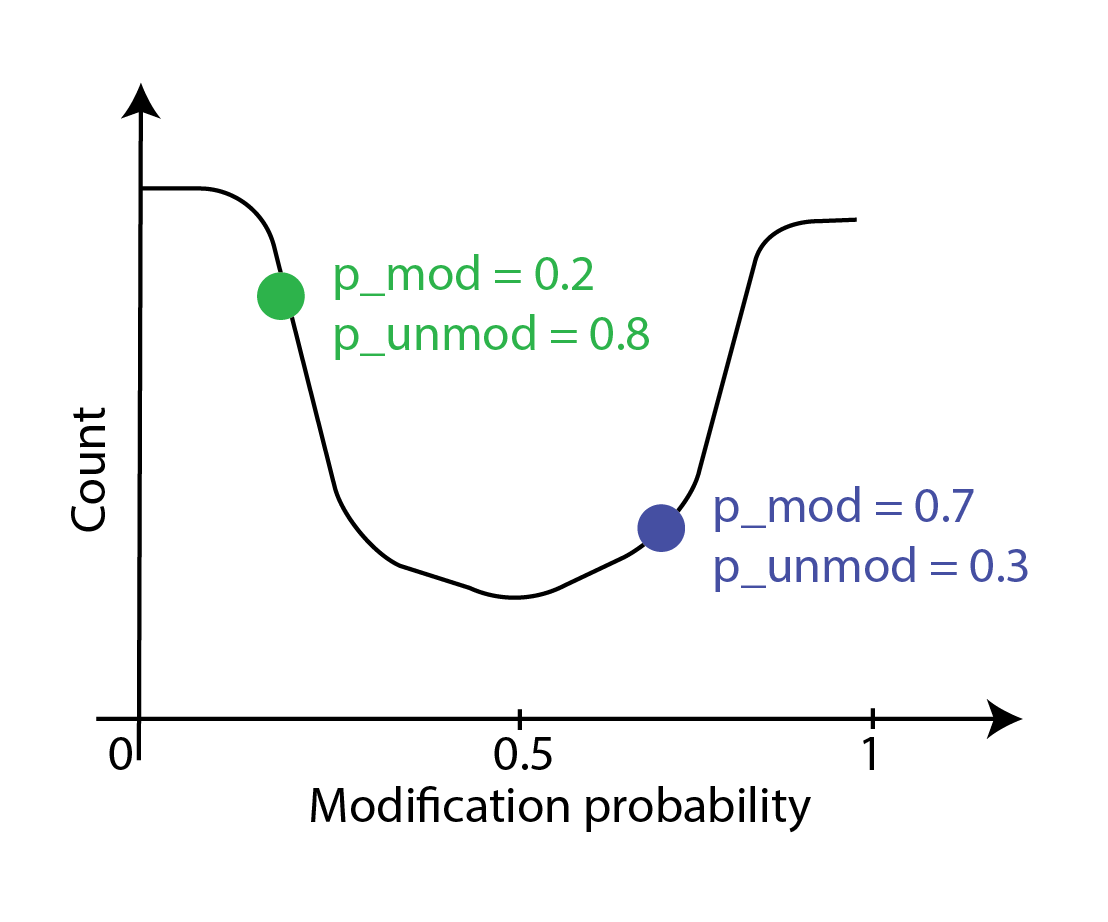
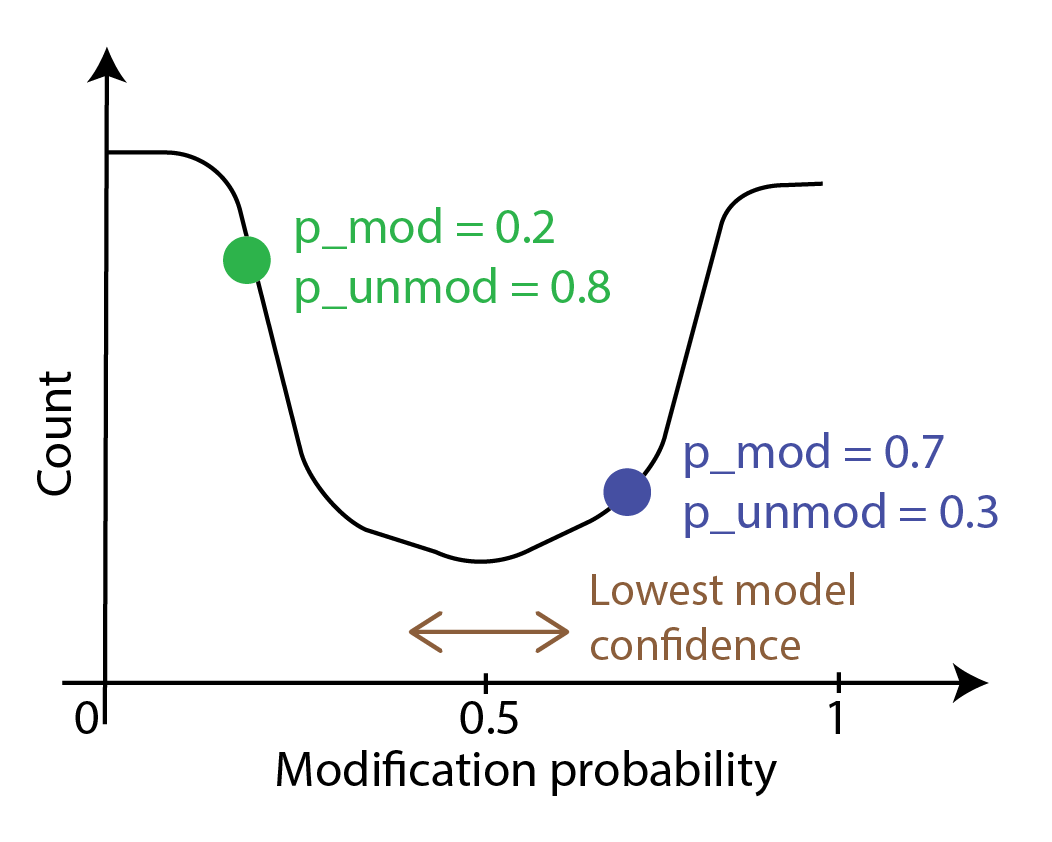
adds more material

diff --git a/materials/manipulate-modified-base.md b/materials/manipulate-modified-base.md
@@ -67,12 +67,16 @@ and this uncertainty is not important.
 There are two ways of thresholding, and they can be applied separately or together: 
 - thresholding directly on modification probabilities,
 - thresholding on model confidences.
-Although the two are closely related, we will mostly be dealing with just thresholding
-directly on probabilities.
+
+We will be using just thresholding directly on probabilities, and leave
+thresholding on model confidences to optional sections below.
 
 The probability curve of modification per base usually looks like the following image.
 Each point on the curve corresponds to a probability of modification `p_mod` and
 a probability that the base is unmodified `p_unmod`; these add up to 1.
+The calls with probabilities close to zero or one are where the model in the modification
+caller is certain that the call is correct. The calls around 0.5 are where
+model uncertainty is the highest as it is doing no better than an unbiased coin toss.
 
 ![Example probability curve of modification per base](probability_of_modification.png)
 
@@ -135,7 +139,8 @@ is shown below.
 As you can see, model confidences grow as one moves away from the midpoint
 of 0.5 in either direction.
 Model confidence is not a new measurement - we are just asking which parts
-of the probability curve around the center have areas of 10%, 20% etc. of the whole curve.
+of the probability curve around the center have areas a fraction of the
+whole curve with the fraction set at 10%, 20% etc. 
 
 ![Confidence zones](probability_of_modification_with_confidence_thresholds.png)
 
@@ -170,17 +175,48 @@ bins in the histogram (`--buckets 10`), and wish to sample
 to save runtime; usually a fraction of the BAM file is sufficient
 for these calculations and we leave it to the experimenter to
 determine what that fraction is for their dataset).
+We will discuss the `-p` option in an optional subsection a little later.
 
 ```bash
 input_bam_file= # fill this suitably
-modkit sample-probs $input_bam_file -o ./histogram --hist --buckets 10 -n 1000
+modkit sample-probs -p 0.1,0.2,0.3,0.4,0.5 \
+  $input_bam_file -o ./histogram --hist --buckets 10 -n 1000
 ```
 
 The output files are deposited in the `./histogram` folder.
 You should see three output files: `probabilities.txt`, `probabilities.tsv`
 and `thresholds.tsv`.
+The `probabilities` files report number of modified bases in ten buckets of
+modification probability `p_mod` from 0.5 - 1.0,
+and the same for the number of unmodified bases using the probability that
+the base is not modified `p_unmod = 1 - p_mod`.
+`probabilities.txt` also contains a histogram made with ASCII art
+(i.e. using the symbol ∎ to build horizontal bars of this histogram).
 
-<!-- TODO: fill what these files mean. what do we do about thresholds? -->
+Have a look at these files, and answer this question for yourself: what 
+would be a good modification probability value for thresholding?
+
+### (optional) thresholds.tsv: measure correspondence between model confidence thresholds and direct probability thresholds
+
+`thresholds.tsv` contains the table of conversion between model confidences and direct probability thresholds.
+This is illustrated in the schematic below, which shows that model confidences of 10% and below
+lie between modification probabilities of `t_1` and `0.5 - t_1`, confidences of 20% and below lie between
+`t_2` and `0.5-t_2` etc. So, thresholds.tsv contains a table that lists this correspondence.
+There are a few other details such as how the program deals with probability curves that are not symmetric about 0.5.
+We are not going to discuss this further; please experiment with this tool and read the 
+[documentation](https://nanoporetech.github.io/modkit/advanced_usage.html#sample-probs) to learn more.
+
+![Schematic of conversion of confidence threshold to probability thresholds](confidence_threshold_convert_to_normal_threshold.png)
+
+### (optional) Form modification histogram from data only at given genomic regions
+
+To form a histogram from data restricted to given genomic regions, form a BED file
+with these regions and pass it to `modkit sample-probs` with the `--include-bed`
+option.
+To form a BED file for particular motifs such as CG, you can use the `modkit motif-bed`
+command.
+Please refer to the modkit [documentation](https://nanoporetech.github.io/modkit/advanced_usage.html)
+for more details.
 
 ## Subsetting mod BAM files with samtools
 
@@ -202,7 +238,8 @@ Following are examples of where subsetting is useful.
 Before we perform any subset, we first count the total number of reads we have
 in a mod BAM file.
 
-Count number of reads
+### Count number of reads
+
 ```bash
 input_file= # fill with whatever input file you want to use
 samtools view -c $input_file
@@ -351,32 +388,119 @@ This logic could easily be implemented in python or R as well.
 We have chosen a tag starting with 'X' so as to not to interfere with other
 BAM tags.
 
-### Combining samtools filters
+### Combining several filters to form subsets with `samtools`
 
-Several filters we have discusssed above can be combined. 
+A powerful feature of `samtools` is that any of the commands we have used above
+can be combined to form complex queries that would have otherwise required
+a substantial amount of computer code to achieve.
+We give a sample of some of the possiblities below.
+Please read the documentation on `samtools view`
+[here](https://www.htslib.org/doc/samtools-view.html) and the documentation
+on filter expressions [here](https://www.htslib.org/doc/1.19/samtools.html#FILTER_EXPRESSIONS)
+to learn about the possibilities.
+
+```bash
+# NOTE: We are not filling the input variables below as these
+#       are just examples of what's possible with samtools.
+#       Please fill them if you want to run them yourself either
+#       now or later.
+
+# make a subset with reads passing through a given region with
+# at least 100 modifications and an alignment length of at least 10 kb
+samtools view -e '[XC]>100&&rlen>10000' -b -o $output_file $input_file $contig:$start-$end
+
+# make a subset with reads passing through given genes with
+# at least 1000 modifications
+samtools view -e '[XC]>1000' -b -o $output_file --region-file $genes_bed_file $input_file 
+
+# subset to get reads that have a low mean modification density
+# and then randomly select 10%.
+samtools view -e '[XC]/rlen<0.01' -s 0.1 -b -o $output_file $input_file
+```
+
+## Combining mod BAM tools leads to easy workflows
+
+Any tool that takes a mod BAM file as an input can also take a subset
+mod BAM file as input.
+Although the above statement sounds obvious, we give an example below
+of how powerful the combination of `modkit` and `samtools` is.
+Let us say we want to look at the modification profiles at a specific
+genomic feature, say transcription start sites.
+A sample way to do this follows.
+
+```bash
+# select only those reads that are highly modified
+# and pass through the given region
+samtools view -e '[XC]>100' -b -o $output_file \
+  --region-file $transcription_start_sites $input_file 
+
+# make histogram using only the part of the reads
+# that overlap with the given region
+modkit sample-probs $output_file -o ./histogram --hist --buckets 10 \
+  --include-bed $transcription_start_sites
+```
+
+## Windowing mod BAM files using custom scripts
+
+We will now learn how to make the data behind the windowed track that we saw in
+our earlier visualization [session]({{ site.baseurl }}/materials/genome-browser-visualization)
+when we made one-read modification plots.
+We will measure mean modification density per shoulder-to-shoulder windows of a given
+size in base pairs along a read and output it to a tab-separated file.
+We will use two custom python scripts that we have written as there are no
+ready-made tools for this purpose.
+
+```bash
+one_read_bam= # fill suitably with a mod BAM file with
+              # just one read in it
+
+# Extract modification information from the bam file
+# NOTE: the --force overwrites any pre-existing output files.
+modkit extract --force "$one_read_bam" "$one_read_bam".tsv
+
+# Use python scripts to extract raw data and window it
+mod_code=                  # use m for 5mC or T for BrdU etc.
+coords_flag=use_ref        # window using reference coordinates
+threshold=                 # threshold to call bases as modified
+window_size= # size of window in number of bases of interest
+             #(C for 5mC, T for BrdU etc.)
+
+python extract_raw_mod_data.py $mod_code $coords_flag "$one_read_bam".tsv "$one_read_bam"_rawVal.tsv
+python window_mod_data.py $threshold $window_size "$one_read_bam"_rawVal.tsv "$one_read_bam"_winVal.tsv
+```
+
+Please inspect the `"$one_read_bam"_winVal.tsv` file to see the windowed data.
+
+## Pileup of reference-anchored mod BAM files with `modkit` and `samtools`
+
+A pileup is any calculation that produces one number per base on a reference
+genome by performing an operation across all data available at that base
+across all reads that contain it.
+We have encountered pileups in the previous
+[session]({{ site.baseurl }}/materials/genome-browser-visualization)
+on visualization in genome browsers.
+
+![IGV view with pileup annotation](igv_overall_view_with_pileup_annotated.png)
 
 <!-- TODO: flesh this out more -->
 
-### Ways to perform pileup with samtools
+To get the coverage of a BAM file, do
+
+```bash
+input_mod_bam= # fill suitably
+bedtools genomecov -ibam $input_mod_bam -bga > coverage.bedgraph
+# inspect the first few lines
+head -n 20 coverage.bedgraph
+# inspect a few randomly chosen lines
+cat coverage.bedgraph | shuf | head -n 20
+```
 
 <!-- TODO: flesh this out more -->
+`modkit pileup --no-filtering --mod-thresholds T:0.03 dnascent.detect.mod.sorted.bam test.08jan24.bed`
 
-Get coverage
-`samtools coverage dnascent.detect.mod.sorted.bam`
+### (optional) Modification pileup with `samtools`
 
 Get modification
 `samtools mpileup -M dnascent.detect.mod.sorted.bam`
 
-### Pileup with modkit
-
-<!-- TODO: flesh this out more -->
-<!-- TODO: do we need --no-filtering? -->
-`modkit pileup --no-filtering --mod-thresholds T:0.03 dnascent.detect.mod.sorted.bam test.08jan24.bed`
-
-
-<!--
-introduce thresholding and windowing but need not get into details here.
--->
-
-<!-- TODO: can introduce modbedtools https://github.com/lidaof/modbedtools 
-https://doi.org/10.1016/j.xgen.2023.100455 -->
+## Final remarks
